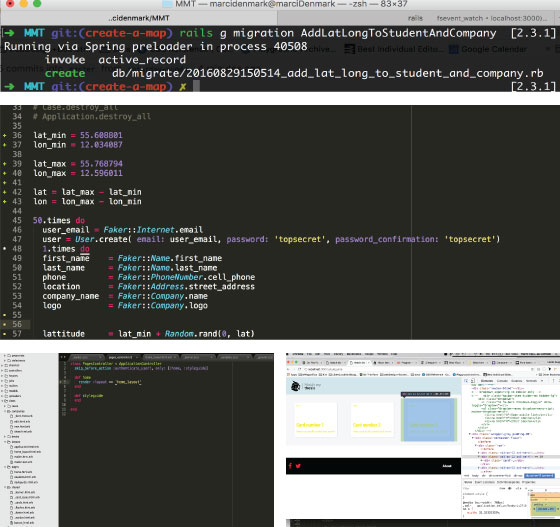
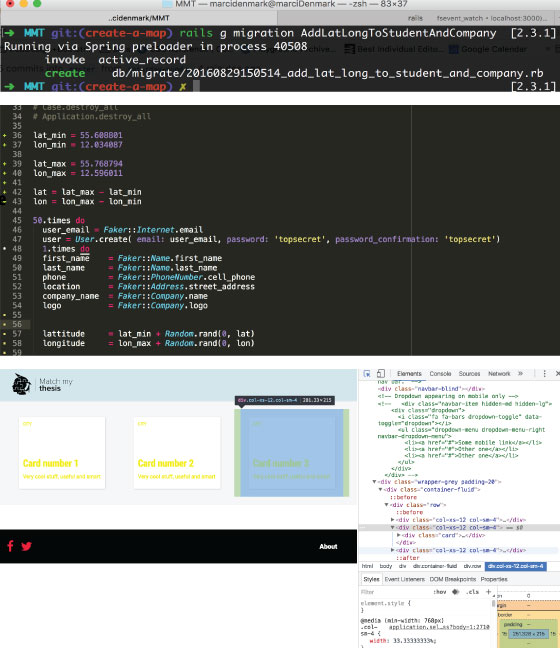
added rest of mmt images for read more

diff --git a/index.html b/index.html
@@ -161,19 +161,36 @@
                                     <p> See the background process</p>
                                 </button>
                                 </p>
+
                                 <div class="collapse" id="collapseExample">
-                                    <div class="borderline"> </div>
-                                    <div class="card-c" style="background: url('images/mmtreadMore2b.jpg');"></div>
-                                    <p>fkldæsafjæ sæFJDÆSAJFK jkasæfjkdæa fjkdsæafkjladsæ fjdklsæafjkadlæ fjdklsæaj fjdklsæafjkl jkfdæsFJKLDAÆ FJDKSÆAFJKDLÆSA</p>
-                                    <div class="margin-bottom"></div>
-                                    <div class="borderline"> </div>
-                                    <div class="card-b" style="background: url('images/mmtReadMore1b.jpg');"></div>
-                                    <p>fkldæsafjæ sæFJDÆSAJFK jkasæfjkdæa fjkdsæafkjladsæ fjdklsæafjkadlæ fjdklsæaj fjdklsæafjkl jkfdæsFJKLDAÆ FJDKSÆAFJKDLÆSA</p>
-                                    <div class="margin-bottom"></div>
+                                  <div class="borderline"> </div>
+                                    <h4>the team</h4>
+                                      <p>æjrkæleajræerjæ</p>
+                                        <div class="card-team" style="background: url('images/mmtgroup.jpg');"></div>
+
+
+                                   <div class="borderline"> </div>
+
+                                    <h4>Screenshots of app pages designed and programed for the first presentation of the project (3 weeks after start date)</h4>
+                                      <p>A bit more info about the project will go here. klfdafkæ jfkdsæaf fjdkslæadf fdjksaæfdj fjdksæafdjks fjdksaæfdjkl fjdkslæafjkl fjdklsæalkfjd fjkdæsafjkl fjkdlsæafjkl</p>
+                                <div class="card-c" style="background: url('images/mmtreadMore2b.jpg');"></div>
+
+                                   <div class="borderline"> </div>
+                                        <h4>Whitboards, wireframes and data base scheme at the start of the project</h4>
+                                          <p>1.læsajfæ fjdksæafjkl fdjklsæafk </p>
+                                            <div class="card-b" style="background: url('images/mmtReadMore1b.jpg');"></div>
+                                    <div class="borderline"></div>
+                                      <h4>jfkdæsajkflæ fjdklæsafjkadlsæ</h4>
+                                        <p>jfklædsajkfæd fjkdlæsafkjdlæas fjdklæsafjk</p>
+                                <div class="card-comp-screens" style="background: url('images/mmtReadMore4.jpg');"></div>
+
+
                                 </div>
+                                 <!-- end of collapse code -->
                                 </div>
-                            </div>
-                            <!-- end of collapse code -->
+                                <!-- end of mmt proj. description div -->
+
+                      </div>
                         </div>
                     </div>
                 </div>

diff --git a/css/components/card.css b/css/components/card.css
@@ -8,6 +8,13 @@
     transition: transform 1s;
 }
 /*card-b has no annimation*/
+
+.card-team {
+  height: 454px;
+}
+.card-comp-screens {
+  height: 596px;
+}
 .card-b {
   height: 381px;
   background-size: cover !important;

diff --git a/css/style.css b/css/style.css
@@ -16,6 +16,9 @@ h1 {
   font-size: 43px;
   color: #282A2B;
 }
+h4 {
+  font-size: 18px;
+}
 h5 {
  font-size: 15px;
 }
